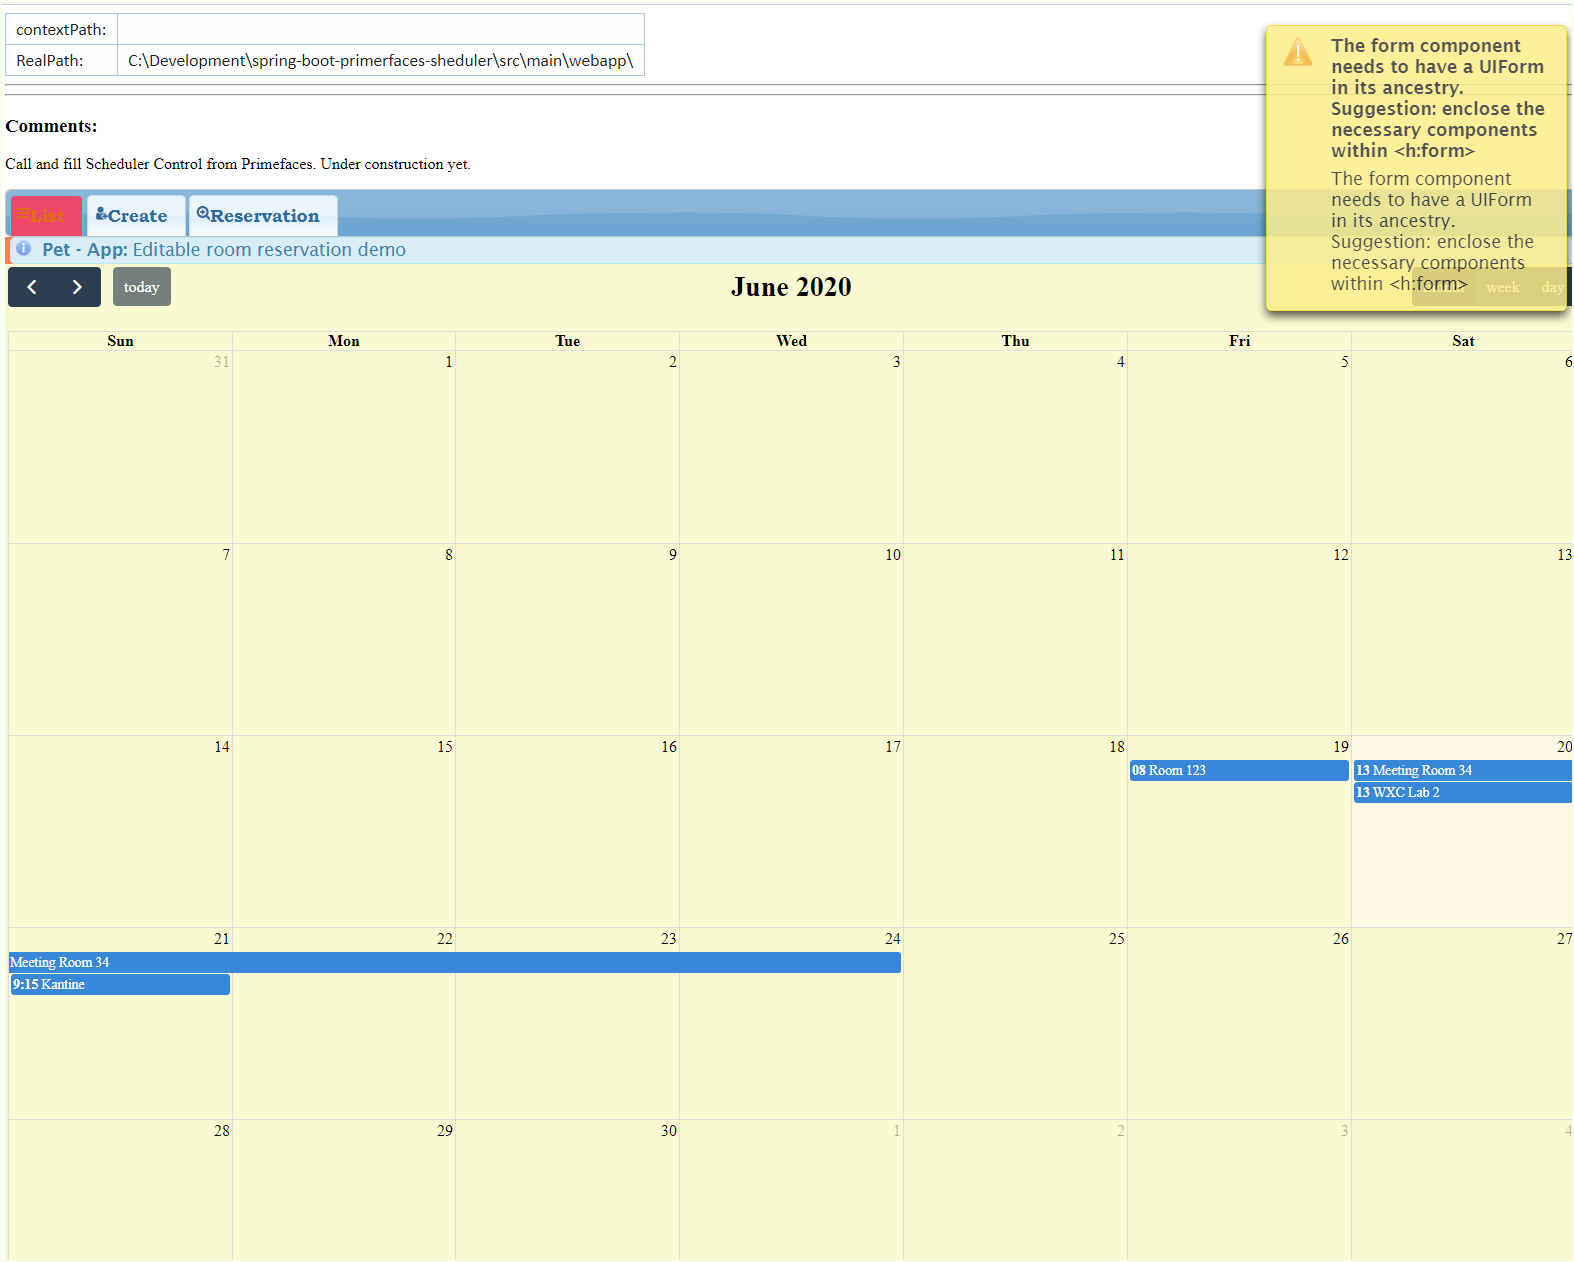
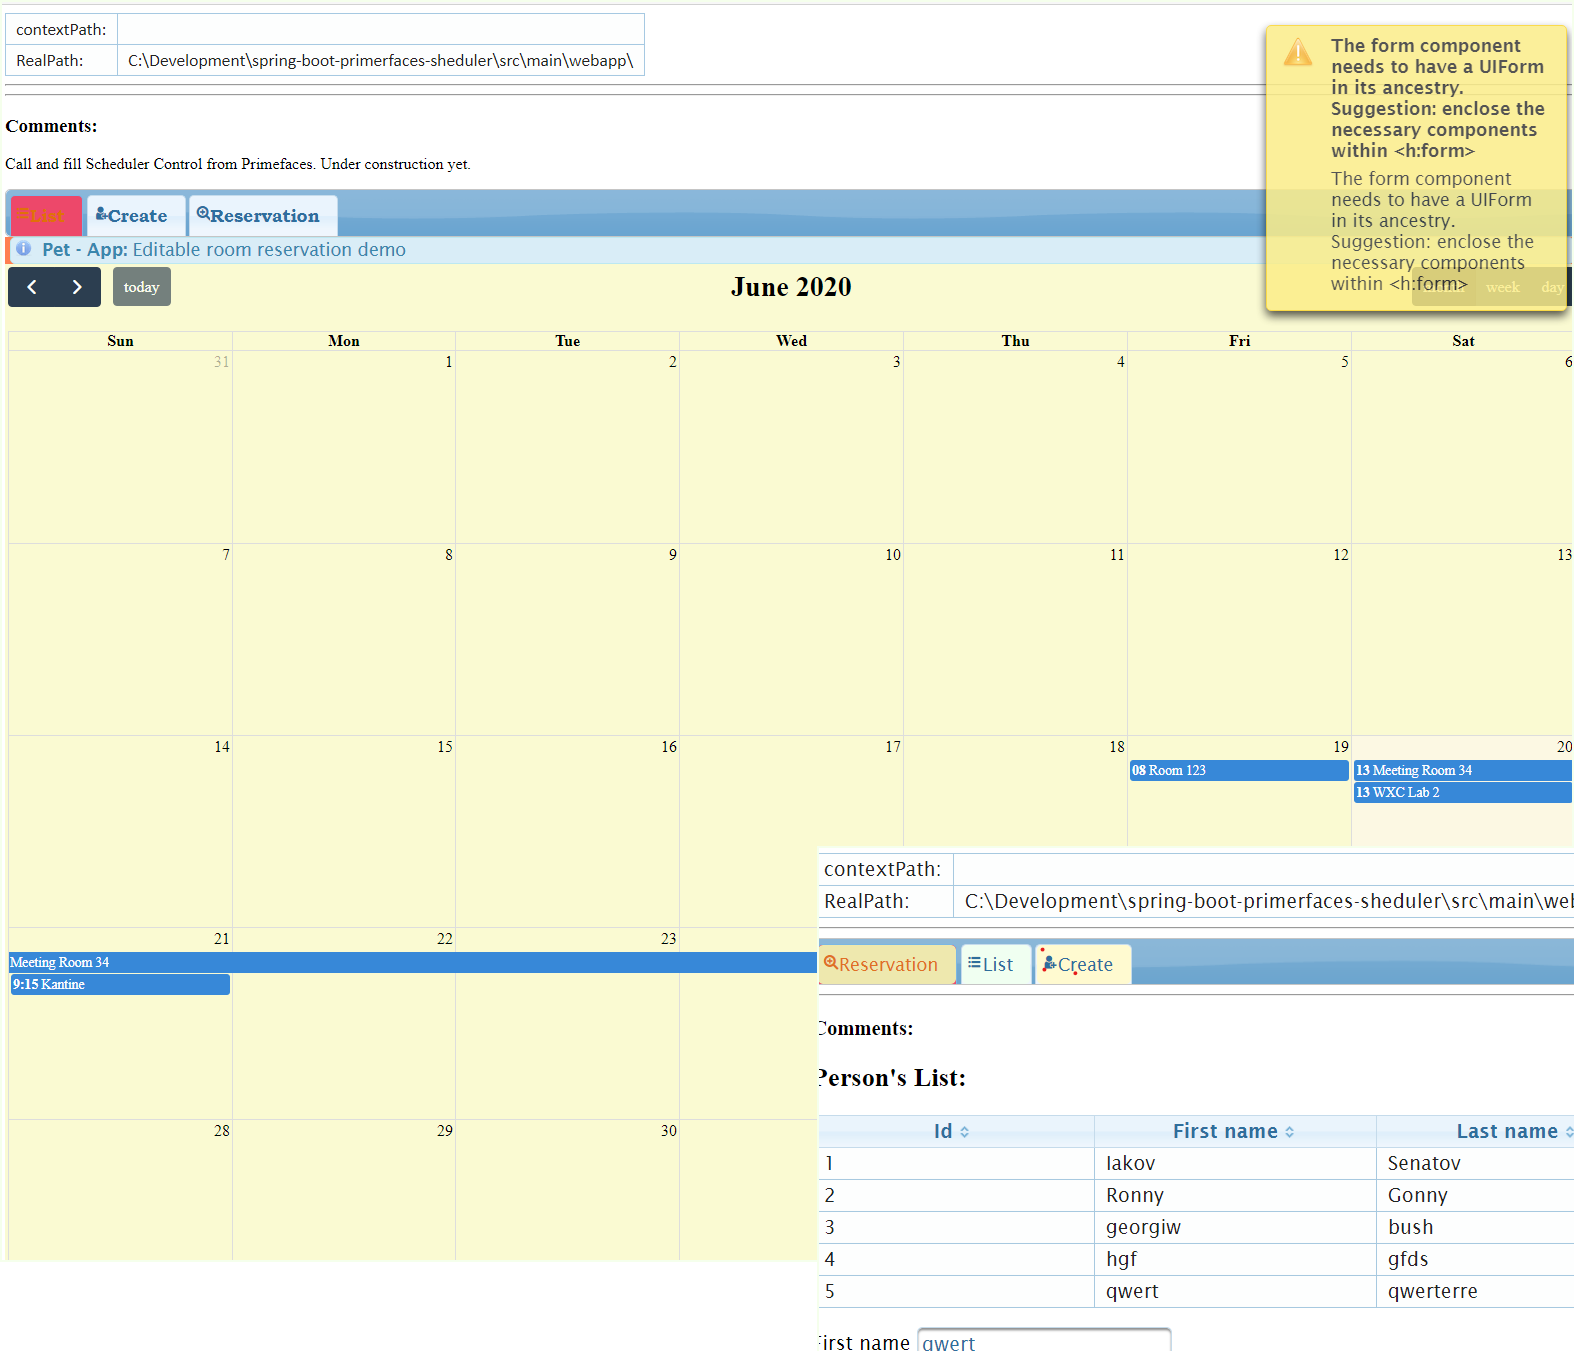
ok/ tested: 1) problem in "create" with table refresh 2) list not works yet

diff --git a/src/main/java/de/senatov/reservatio/db/UserView.java b/src/main/java/de/senatov/reservatio/db/UserView.java
@@ -9,12 +9,15 @@ import org.springframework.stereotype.Component;
 
 import javax.annotation.PostConstruct;
 import javax.faces.view.ViewScoped;
+import javax.inject.Named;
 import java.io.Serializable;
 import java.util.ArrayList;
 import java.util.List;
+import java.util.stream.Collectors;
 
 
 
+@Named("userView")
 @Component
 @ViewScoped
 @Slf4j
@@ -22,6 +25,7 @@ import java.util.List;
 public class UserView implements Serializable {
 
 	private static final long serialVersionUID = 3849109028806396639L;
+	private String hint = "Save new system user in DB";
 	@Autowired
 	private UserService userService;
 	private List<User> users = new ArrayList<>();
@@ -54,10 +58,10 @@ public class UserView implements Serializable {
 	public String savePerson() {
 
 		log.debug("savePerson()");
+		user.setId(null);
 		userService.addUser(user);
 		users = new ArrayList<>();
 		users = userService.getAllUsers();
-		System.out.println("save");
 		return "save";
 	}
 
@@ -67,8 +71,56 @@ public class UserView implements Serializable {
 
 		log.debug("newPerson()");
 		user = new User();
-		System.out.println("new");
 		return "new";
+	}
+
+
+
+	List<Long> getIds() {
+
+		return users.stream()
+		            .map(User::getId)
+		            .collect(Collectors.toList());
+
+	}
+
+
+
+	List<String> getFirstNames() {
+
+		return users.stream()
+		            .map(User::getFirstName)
+		            .collect(Collectors.toList());
+
+	}
+
+
+
+	List<String> getLastNames() {
+
+		return users.stream()
+		            .map(User::getLastName)
+		            .collect(Collectors.toList());
+	}
+
+
+
+	List<String> getUserNames() {
+
+		return users.stream()
+		            .map(User::getUserName)
+		            .collect(Collectors.toList());
+
+	}
+
+
+
+	List<String> getEmails() {
+
+		return users.stream()
+		            .map(User::getEMail)
+		            .collect(Collectors.toList());
+
 	}
 
 }

diff --git a/src/main/java/de/senatov/reservatio/db/UserService.java b/src/main/java/de/senatov/reservatio/db/UserService.java
@@ -19,6 +19,7 @@ import java.util.Optional;
 @ToString
 public class UserService implements Serializable {
 
+	private static final long serialVersionUID = 2480837124037856177L;
 	@Autowired
 	private UserRepository userRepository;
 
@@ -34,10 +35,10 @@ public class UserService implements Serializable {
 	public List<User> getAllUsers() {
 
 		log.debug("getAllUsers()");
-		List<User> posts = new ArrayList<>();
+		List<User> users = new ArrayList<>();
 		userRepository.findAll()
-		              .forEach(posts::add);
-		return posts;
+		              .forEach(users::add);
+		return users;
 	}
 
 
